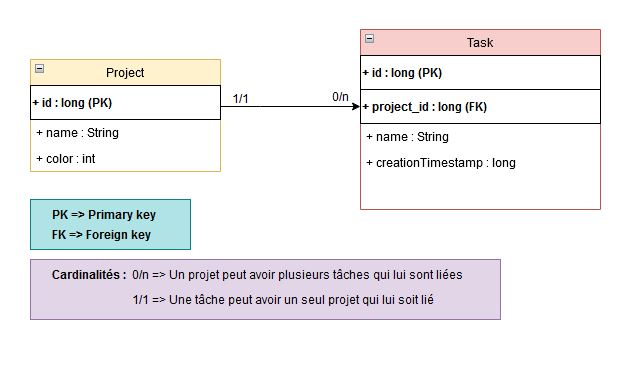
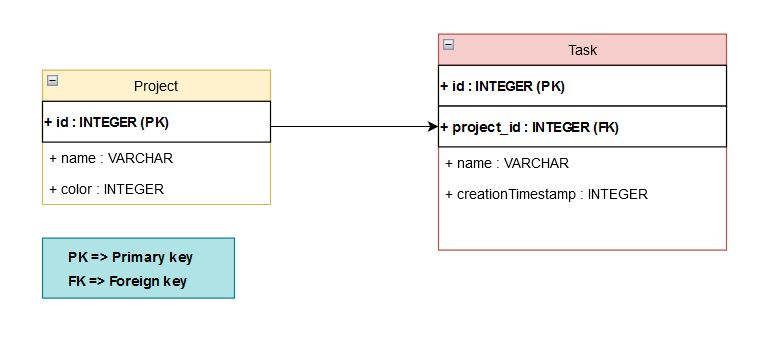
Modif MPD Instrumented test and diagram

Changed region(s): [[0.0301, 0.059, 0.9635, 0.885]]

diff --git a/Test Results - TaskDaoTest.html b/Test Results - TaskDaoTest.html
@@ -1,9 +1,9 @@
 <!DOCTYPE html PUBLIC "-//W3C//DTD XHTML 1.0 Strict//EN" "http://www.w3.org/TR/xhtml1/DTD/xhtml1-strict.dtd">
 <html xmlns:str="http://exslt.org/strings" xmlns="http://www.w3.org/1999/xhtml">
-<head>
-<META http-equiv="Content-Type" content="text/html; charset=UTF-8">
-<title>Test Results &mdash; TaskDaoTest</title>
-<style type="text/css">
+    <head>
+        <META http-equiv="Content-Type" content="text/html; charset=UTF-8">
+        <title>Test Results &mdash; TaskDaoTest</title>
+        <style type="text/css">
           html {
             height: 100%
           }
@@ -275,8 +275,7 @@
               font-size: 80%;
           }
         </style>
-
-<script type="text/javascript">
+        <script type="text/javascript">
 eval(function(p,a,c,k,e,r){e=function(c){return(c<a?'':e(parseInt(c/a)))+((c=c%a)>35?String.fromCharCode(c+29):c.toString(36))};if(!''.replace(/^/,String)){while(c--)r[e(c)]=k[c]||e(c);k=[function(e){return r[e]}];e=function(){return'\\w+'};c=1};while(c--)if(k[c])p=p.replace(new RegExp('\\b'+e(c)+'\\b','g'),k[c]);return p}('(G(){9(1n E!="11")H w=E;H E=17.16=G(a,c){9(17==6||!6.4K)I 1q E(a,c);I 6.4K(a,c)};9(1n $!="11")H D=$;17.$=E;H u=/^[^<]*(<(.|\\s)+>)[^>]*$|^#(\\w+)$/;E.1b=E.3x={4K:G(a,c){a=a||U;9(1n a=="1M"){H m=u.2L(a);9(m&&(m[1]||!c)){9(m[1])a=E.4I([m[1]],c);J{H b=U.42(m[3]);9(b)9(b.1T!=m[3])I E().1X(a);J{6[0]=b;6.L=1;I 6}J a=[]}}J I 1q E(c).1X(a)}J 9(E.1p(a))I 1q E(U)[E.1b.2d?"2d":"37"](a);I 6.6u(a.1d==1C&&a||(a.4d||a.L&&a!=17&&!a.1z&&a[0]!=11&&a[0].1z)&&E.2h(a)||[a])},4d:"1.2",82:G(){I 6.L},L:0,28:G(a){I a==11?E.2h(6):6[a]},2v:G(a){H b=E(a);b.4Y=6;I b},6u:G(a){6.L=0;1C.3x.1a.15(6,a);I 6},O:G(a,b){I E.O(6,a,b)},4J:G(a){H b=-1;6.O(G(i){9(6==a)b=i});I b},1y:G(f,d,e){H c=f;9(f.1d==3T)9(d==11)I 6.L&&E[e||"1y"](6[0],f)||11;J{c={};c[f]=d}I 6.O(G(a){M(H b 1j c)E.1y(e?6.R:6,b,E.1c(6,c[b],e,a,b))})},18:G(b,a){I 6.1y(b,a,"3O")},2t:G(e){9(1n e!="5w"&&e!=S)I 6.4o().3e(U.6F(e));H t="";E.O(e||6,G(){E.O(6.2X,G(){9(6.1z!=8)t+=6.1z!=1?6.6x:E.1b.2t([6])})});I t},5l:G(b){9(6[0])E(b,6[0].3N).6t().38(6[0]).1W(G(){H a=6;1Y(a.1t)a=a.1t;I a}).3e(6);I 6},8p:G(a){I 6.O(G(){E(6).6p().5l(a)})},8h:G(a){I 6.O(G(){E(6).5l(a)})},3e:G(){I 6.3s(1k,Q,1,G(a){6.57(a)})},6k:G(){I 6.3s(1k,Q,-1,G(a){6.38(a,6.1t)})},6g:G(){I 6.3s(1k,P,1,G(a){6.14.38(a,6)})},53:G(){I 6.3s(1k,P,-1,G(a){6.14.38(a,6.2i)})},1B:G(){I 6.4Y||E([])},1X:G(t){H b=E.1W(6,G(a){I E.1X(t,a)});I 6.2v(/[^+>] [^+>]/.12(t)||t.1e("..")>-1?E.4V(b):b)},6t:G(e){H f=6.1W(G(){I 6.66?E(6.66)[0]:6.4S(Q)});9(e===Q){H d=f.1X("*").4Q();6.1X("*").4Q().O(G(i){H c=E.K(6,"2A");M(H a 1j c)M(H b 1j c[a])E.1h.1f(d[i],a,c[a][b],c[a][b].K)})}I f},1A:G(t){I 6.2v(E.1p(t)&&E.2T(6,G(b,a){I t.15(b,[a])})||E.3G(t,6))},5T:G(t){I 6.2v(t.1d==3T&&E.3G(t,6,Q)||E.2T(6,G(a){I(t.1d==1C||t.4d)?E.2S(a,t)<0:a!=t}))},1f:G(t){I 6.2v(E.1S(6.28(),t.1d==3T?E(t).28():t.L!=11&&(!t.Y||t.Y=="7t")?t:[t]))},3j:G(a){I a?E.3G(a,6).L>0:P},7g:G(a){I 6.3j("."+a)},2V:G(b){9(b==11){9(6.L){H c=6[0];9(E.Y(c,"24")){H e=c.4z,a=[],W=c.W,2P=c.N=="24-2P";9(e<0)I S;M(H i=2P?e:0,2Y=2P?e+1:W.L;i<2Y;i++){H d=W[i];9(d.29){H b=E.V.1g&&!d.70["1N"].9U?d.2t:d.1N;9(2P)I b;a.1a(b)}}I a}J I 6[0].1N.1o(/\\r/g,"")}}J I 6.O(G(){9(b.1d==1C&&/4s|5u/.12(6.N))6.2K=(E.2S(6.1N,b)>=0||E.2S(6.2J,b)>=0);J 9(E.Y(6,"24")){H a=b.1d==1C?b:[b];E("9m",6).O(G(){6.29=(E.2S(6.1N,a)>=0||E.2S(6.2t,a)>=0)});9(!a.L)6.4z=-1}J 6.1N=b})},4n:G(a){I a==11?(6.L?6[0].3D:S):6.4o().3e(a)},6H:G(a){I 6.53(a).2e()},2s:G(){I 6.2v(1C.3x.2s.15(6,1k))},1W:G(b){I 6.2v(E.1W(6,G(a,i){I b.3c(a,i,a)}))},4Q:G(){I 6.1f(6.4Y)},3s:G(f,d,g,e){H c=6.L>1,a;I 6.O(G(){9(!a){a=E.4I(f,6.3N);9(g<0)a.91()}H b=6;9(d&&E.Y(6,"1F")&&E.Y(a[0],"4k"))b=6.4q("1J")[0]||6.57(U.5r("1J"));E.O(a,G(){9(E.Y(6,"1P")){9(6.3g)E.3w({1u:6.3g,3h:P,1Z:"1P"});J E.5h(6.2t||6.6s||6.3D||"")}J e.15(b,[c?6.4S(Q):6])})})}};E.1i=E.1b.1i=G(){H c=1k[0]||{},a=1,2g=1k.L,5e=P;9(c.1d==8v){5e=c;c=1k[1]||{}}9(2g==1){c=6;a=0}H b;M(;a<2g;a++)9((b=1k[a])!=S)M(H i 1j b){9(c==b[i])6r;9(5e&&1n b[i]==\'5w\'&&c[i])E.1i(c[i],b[i]);J 9(b[i]!=11)c[i]=b[i]}I c};H F="16"+(1q 3v()).3u(),6q=0,5d={};E.1i({8k:G(a){17.$=D;9(a)17.16=w;I E},1p:G(a){I!!a&&1n a!="1M"&&!a.Y&&a.1d!=1C&&/G/i.12(a+"")},4a:G(a){I a.35&&!a.1K||a.34&&a.3N&&!a.3N.1K},5h:G(a){a=E.33(a);9(a){9(17.6o)17.6o(a);J 9(E.V.1H)17.58(a,0);J 3p.3c(17,a)}},Y:G(b,a){I b.Y&&b.Y.26()==a.26()},1I:{},K:G(c,d,b){c=c==17?5d:c;H a=c[F];9(!a)a=c[F]=++6q;9(d&&!E.1I[a])E.1I[a]={};9(b!=11)E.1I[a][d]=b;I d?E.1I[a][d]:a},30:G(c,b){c=c==17?5d:c;H a=c[F];9(b){9(E.1I[a]){2G E.1I[a][b];b="";M(b 1j E.1I[a])22;9(!b)E.30(c)}}J{2c{2G c[F]}27(e){9(c.54)c.54(F)}2G E.1I[a]}},O:G(a,b,c){9(c){9(a.L==11)M(H i 1j a)b.15(a[i],c);J M(H i=0,45=a.L;i<45;i++)9(b.15(a[i],c)===P)22}J{9(a.L==11)M(H i 1j a)b.3c(a[i],i,a[i]);J M(H i=0,45=a.L,2V=a[0];i<45&&b.3c(2V,i,2V)!==P;2V=a[++i]){}}I a},1c:G(c,b,d,e,a){9(E.1p(b))b=b.3c(c,[e]);H f=/z-?4J|7T-?7S|1v|69|7Q-?1G/i;I b&&b.1d==4X&&d=="3O"&&!f.12(a)?b+"2I":b},1m:{1f:G(b,c){E.O((c||"").2p(/\\s+/),G(i,a){9(!E.1m.3t(b.1m,a))b.1m+=(b.1m?" ":"")+a})},2e:G(b,c){b.1m=c!=11?E.2T(b.1m.2p(/\\s+/),G(a){I!E.1m.3t(c,a)}).65(" "):""},3t:G(t,c){I E.2S(c,(t.1m||t).3z().2p(/\\s+/))>-1}},2q:G(e,o,f){M(H i 1j o){e.R["3C"+i]=e.R[i];e.R[i]=o[i]}f.15(e,[]);M(H i 1j o)e.R[i]=e.R["3C"+i]},18:G(e,p){9(p=="1G"||p=="2E"){H b={},3Z,3Y,d=["7L","7K","7J","7G"];E.O(d,G(){b["7F"+6]=0;b["7D"+6+"61"]=0});E.2q(e,b,G(){9(E(e).3j(\':3X\')){3Z=e.7A;3Y=e.7z}J{e=E(e.4S(Q)).1X(":4s").5X("2K").1B().18({4v:"1O",2W:"4D",19:"2U",7w:"0",1R:"0"}).5P(e.14)[0];H a=E.18(e.14,"2W")||"3V";9(a=="3V")e.14.R.2W="7k";3Z=e.7h;3Y=e.7f;9(a=="3V")e.14.R.2W="3V";e.14.3k(e)}});I p=="1G"?3Z:3Y}I E.3O(e,p)},3O:G(h,j,i){H g,2u=[],2q=[];G 3l(a){9(!E.V.1H)I P;H b=U.3M.3P(a,S);I!b||b.4y("3l")==""}9(j=="1v"&&E.V.1g){g=E.1y(h.R,"1v");I g==""?"1":g}9(j.1U(/4r/i))j=y;9(!i&&h.R[j])g=h.R[j];J 9(U.3M&&U.3M.3P){9(j.1U(/4r/i))j="4r";j=j.1o(/([A-Z])/g,"-$1").2F();H d=U.3M.3P(h,S);9(d&&!3l(h))g=d.4y(j);J{M(H a=h;a&&3l(a);a=a.14)2u.4Z(a);M(a=0;a<2u.L;a++)9(3l(2u[a])){2q[a]=2u[a].R.19;2u[a].R.19="2U"}g=j=="19"&&2q[2u.L-1]!=S?"2j":U.3M.3P(h,S).4y(j)||"";M(a=0;a<2q.L;a++)9(2q[a]!=S)2u[a].R.19=2q[a]}9(j=="1v"&&g=="")g="1"}J 9(h.43){H f=j.1o(/\\-(\\w)/g,G(m,c){I c.26()});g=h.43[j]||h.43[f];9(!/^\\d+(2I)?$/i.12(g)&&/^\\d/.12(g)){H k=h.R.1R;H e=h.4t.1R;h.4t.1R=h.43.1R;h.R.1R=g||0;g=h.R.74+"2I";h.R.1R=k;h.4t.1R=e}}I g},4I:G(a,e){H r=[];e=e||U;E.O(a,G(i,d){9(!d)I;9(d.1d==4X)d=d.3z();9(1n d=="1M"){d=d.1o(/(<(\\w+)[^>]*?)\\/>/g,G(m,a,b){I b.1U(/^(71|6Z|5D|6Y|49|9S|9P|3f|9K|9I)$/i)?m:a+"></"+b+">"});H s=E.33(d).2F(),1r=e.5r("1r"),2x=[];H c=!s.1e("<9D")&&[1,"<24>","</24>"]||!s.1e("<9A")&&[1,"<6S>","</6S>"]||s.1U(/^<(9x|1J|9u|9t|9s)/)&&[1,"<1F>","</1F>"]||!s.1e("<4k")&&[2,"<1F><1J>","</1J></1F>"]||(!s.1e("<9r")||!s.1e("<9q"))&&[3,"<1F><1J><4k>","</4k></1J></1F>"]||!s.1e("<5D")&&[2,"<1F><1J></1J><6L>","</6L></1F>"]||E.V.1g&&[1,"1r<1r>","</1r>"]||[0,"",""];1r.3D=c[1]+d+c[2];1Y(c[0]--)1r=1r.5k;9(E.V.1g){9(!s.1e("<1F")&&s.1e("<1J")<0)2x=1r.1t&&1r.1t.2X;J 9(c[1]=="<1F>"&&s.1e("<1J")<0)2x=1r.2X;M(H n=2x.L-1;n>=0;--n)9(E.Y(2x[n],"1J")&&!2x[n].2X.L)2x[n].14.3k(2x[n]);9(/^\\s/.12(d))1r.38(e.6F(d.1U(/^\\s*/)[0]),1r.1t)}d=E.2h(1r.2X)}9(0===d.L&&(!E.Y(d,"3B")&&!E.Y(d,"24")))I;9(d[0]==11||E.Y(d,"3B")||d.W)r.1a(d);J r=E.1S(r,d)});I r},1y:G(c,d,a){H e=E.4a(c)?{}:E.5o;9(d=="29"&&E.V.1H)c.14.4z;9(e[d]){9(a!=11)c[e[d]]=a;I c[e[d]]}J 9(E.V.1g&&d=="R")I E.1y(c.R,"9g",a);J 9(a==11&&E.V.1g&&E.Y(c,"3B")&&(d=="9e"||d=="9d"))I c.9b(d).6x;J 9(c.34){9(a!=11){9(d=="N"&&E.Y(c,"49")&&c.14)6E"N 96 94\'t 93 92";c.90(d,a)}9(E.V.1g&&/6B|3g/.12(d)&&!E.4a(c))I c.4l(d,2);I c.4l(d)}J{9(d=="1v"&&E.V.1g){9(a!=11){c.69=1;c.1A=(c.1A||"").1o(/6A\\([^)]*\\)/,"")+(3K(a).3z()=="8V"?"":"6A(1v="+a*6z+")")}I c.1A?(3K(c.1A.1U(/1v=([^)]*)/)[1])/6z).3z():""}d=d.1o(/-([a-z])/8T,G(z,b){I b.26()});9(a!=11)c[d]=a;I c[d]}},33:G(t){I(t||"").1o(/^\\s+|\\s+$/g,"")},2h:G(a){H r=[];9(1n a!="8Q")M(H i=0,2g=a.L;i<2g;i++)r.1a(a[i]);J r=a.2s(0);I r},2S:G(b,a){M(H i=0,2g=a.L;i<2g;i++)9(a[i]==b)I i;I-1},1S:G(a,b){9(E.V.1g){M(H i=0;b[i];i++)9(b[i].1z!=8)a.1a(b[i])}J M(H i=0;b[i];i++)a.1a(b[i]);I a},4V:G(b){H r=[],2f={};2c{M(H i=0,6P=b.L;i<6P;i++){H a=E.K(b[i]);9(!2f[a]){2f[a]=Q;r.1a(b[i])}}}27(e){r=b}I r},2T:G(b,a,c){9(1n a=="1M")a=3p("P||G(a,i){I "+a+"}");H d=[];M(H i=0,4m=b.L;i<4m;i++)9(!c&&a(b[i],i)||c&&!a(b[i],i))d.1a(b[i]);I d},1W:G(c,b){9(1n b=="1M")b=3p("P||G(a){I "+b+"}");H d=[];M(H i=0,4m=c.L;i<4m;i++){H a=b(c[i],i);9(a!==S&&a!=11){9(a.1d!=1C)a=[a];d=d.8O(a)}}I d}});H v=8M.8K.2F();E.V={4f:(v.1U(/.+(?:8I|8H|8F|8E)[\\/: ]([\\d.]+)/)||[])[1],1H:/6T/.12(v),3a:/3a/.12(v),1g:/1g/.12(v)&&!/3a/.12(v),39:/39/.12(v)&&!/(8B|6T)/.12(v)};H y=E.V.1g?"4h":"5g";E.1i({5f:!E.V.1g||U.8A=="8z",4h:E.V.1g?"4h":"5g",5o:{"M":"8y","8x":"1m","4r":y,5g:y,4h:y,3D:"3D",1m:"1m",1N:"1N",36:"36",2K:"2K",8w:"8u",29:"29",8t:"8s"}});E.O({1D:"a.14",8r:"16.4e(a,\'14\')",8q:"16.2R(a,2,\'2i\')",8o:"16.2R(a,2,\'4c\')",8n:"16.4e(a,\'2i\')",8m:"16.4e(a,\'4c\')",8l:"16.5c(a.14.1t,a)",8j:"16.5c(a.1t)",6p:"16.Y(a,\'8i\')?a.8f||a.8e.U:16.2h(a.2X)"},G(i,n){E.1b[i]=G(a){H b=E.1W(6,n);9(a&&1n a=="1M")b=E.3G(a,b);I 6.2v(E.4V(b))}});E.O({5P:"3e",8d:"6k",38:"6g",8c:"53",8b:"6H"},G(i,n){E.1b[i]=G(){H a=1k;I 6.O(G(){M(H j=0,2g=a.L;j<2g;j++)E(a[j])[n](6)})}});E.O({5X:G(a){E.1y(6,a,"");6.54(a)},8a:G(c){E.1m.1f(6,c)},89:G(c){E.1m.2e(6,c)},88:G(c){E.1m[E.1m.3t(6,c)?"2e":"1f"](6,c)},2e:G(a){9(!a||E.1A(a,[6]).r.L){E.30(6);6.14.3k(6)}},4o:G(){E("*",6).O(G(){E.30(6)});1Y(6.1t)6.3k(6.1t)}},G(i,n){E.1b[i]=G(){I 6.O(n,1k)}});E.O(["87","61"],G(i,a){H n=a.2F();E.1b[n]=G(h){I 6[0]==17?E.V.1H&&3r["86"+a]||E.5f&&32.2Y(U.35["59"+a],U.1K["59"+a])||U.1K["59"+a]:6[0]==U?32.2Y(U.1K["6n"+a],U.1K["6m"+a]):h==11?(6.L?E.18(6[0],n):S):6.18(n,h.1d==3T?h:h+"2I")}});H C=E.V.1H&&3q(E.V.4f)<85?"(?:[\\\\w*56-]|\\\\\\\\.)":"(?:[\\\\w\\84-\\83*56-]|\\\\\\\\.)",6j=1q 47("^>\\\\s*("+C+"+)"),6i=1q 47("^("+C+"+)(#)("+C+"+)"),6h=1q 47("^([#.]?)("+C+"*)");E.1i({55:{"":"m[2]==\'*\'||16.Y(a,m[2])","#":"a.4l(\'1T\')==m[2]",":":{81:"i<m[3]-0",7Z:"i>m[3]-0",2R:"m[3]-0==i",7Y:"m[3]-0==i",3o:"i==0",3n:"i==r.L-1",6f:"i%2==0",6d:"i%2","3o-46":"a.14.4q(\'*\')[0]==a","3n-46":"16.2R(a.14.5k,1,\'4c\')==a","7X-46":"!16.2R(a.14.5k,2,\'4c\')",1D:"a.1t",4o:"!a.1t",7W:"(a.6s||a.7V||\'\').1e(m[3])>=0",3X:\'"1O"!=a.N&&16.18(a,"19")!="2j"&&16.18(a,"4v")!="1O"\',1O:\'"1O"==a.N||16.18(a,"19")=="2j"||16.18(a,"4v")=="1O"\',7U:"!a.36",36:"a.36",2K:"a.2K",29:"a.29||16.1y(a,\'29\')",2t:"\'2t\'==a.N",4s:"\'4s\'==a.N",5u:"\'5u\'==a.N",52:"\'52\'==a.N",51:"\'51\'==a.N",50:"\'50\'==a.N",6c:"\'6c\'==a.N",6b:"\'6b\'==a.N",2y:\'"2y"==a.N||16.Y(a,"2y")\',49:"/49|24|6a|2y/i.12(a.Y)",3t:"16.1X(m[3],a).L",7R:"/h\\\\d/i.12(a.Y)",7P:"16.2T(16.2Z,G(1b){I a==1b.T;}).L"}},68:[/^(\\[) *@?([\\w-]+) *([!*$^~=]*) *(\'?"?)(.*?)\\4 *\\]/,/^(:)([\\w-]+)\\("?\'?(.*?(\\(.*?\\))?[^(]*?)"?\'?\\)/,1q 47("^([:.#]*)("+C+"+)")],3G:G(a,c,b){H d,2b=[];1Y(a&&a!=d){d=a;H f=E.1A(a,c,b);a=f.t.1o(/^\\s*,\\s*/,"");2b=b?c=f.r:E.1S(2b,f.r)}I 2b},1X:G(t,o){9(1n t!="1M")I[t];9(o&&!o.1z)o=S;o=o||U;H d=[o],2f=[],3n;1Y(t&&3n!=t){H r=[];3n=t;t=E.33(t);H l=P;H g=6j;H m=g.2L(t);9(m){H p=m[1].26();M(H i=0;d[i];i++)M(H c=d[i].1t;c;c=c.2i)9(c.1z==1&&(p=="*"||c.Y.26()==p.26()))r.1a(c);d=r;t=t.1o(g,"");9(t.1e(" ")==0)6r;l=Q}J{g=/^([>+~])\\s*(\\w*)/i;9((m=g.2L(t))!=S){r=[];H p=m[2],1S={};m=m[1];M(H j=0,31=d.L;j<31;j++){H n=m=="~"||m=="+"?d[j].2i:d[j].1t;M(;n;n=n.2i)9(n.1z==1){H h=E.K(n);9(m=="~"&&1S[h])22;9(!p||n.Y.26()==p.26()){9(m=="~")1S[h]=Q;r.1a(n)}9(m=="+")22}}d=r;t=E.33(t.1o(g,""));l=Q}}9(t&&!l){9(!t.1e(",")){9(o==d[0])d.44();2f=E.1S(2f,d);r=d=[o];t=" "+t.67(1,t.L)}J{H k=6i;H m=k.2L(t);9(m){m=[0,m[2],m[3],m[1]]}J{k=6h;m=k.2L(t)}m[2]=m[2].1o(/\\\\/g,"");H f=d[d.L-1];9(m[1]=="#"&&f&&f.42&&!E.4a(f)){H q=f.42(m[2]);9((E.V.1g||E.V.3a)&&q&&1n q.1T=="1M"&&q.1T!=m[2])q=E(\'[@1T="\'+m[2]+\'"]\',f)[0];d=r=q&&(!m[3]||E.Y(q,m[3]))?[q]:[]}J{M(H i=0;d[i];i++){H a=m[1]=="#"&&m[3]?m[3]:m[1]!=""||m[0]==""?"*":m[2];9(a=="*"&&d[i].Y.2F()=="5w")a="3f";r=E.1S(r,d[i].4q(a))}9(m[1]==".")r=E.4W(r,m[2]);9(m[1]=="#"){H e=[];M(H i=0;r[i];i++)9(r[i].4l("1T")==m[2]){e=[r[i]];22}r=e}d=r}t=t.1o(k,"")}}9(t){H b=E.1A(t,r);d=r=b.r;t=E.33(b.t)}}9(t)d=[];9(d&&o==d[0])d.44();2f=E.1S(2f,d);I 2f},4W:G(r,m,a){m=" "+m+" ";H c=[];M(H i=0;r[i];i++){H b=(" "+r[i].1m+" ").1e(m)>=0;9(!a&&b||a&&!b)c.1a(r[i])}I c},1A:G(t,r,h){H d;1Y(t&&t!=d){d=t;H p=E.68,m;M(H i=0;p[i];i++){m=p[i].2L(t);9(m){t=t.7O(m[0].L);m[2]=m[2].1o(/\\\\/g,"");22}}9(!m)22;9(m[1]==":"&&m[2]=="5T")r=E.1A(m[3],r,Q).r;J 9(m[1]==".")r=E.4W(r,m[2],h);J 9(m[1]=="["){H g=[],N=m[3];M(H i=0,31=r.L;i<31;i++){H a=r[i],z=a[E.5o[m[2]]||m[2]];9(z==S||/6B|3g|29/.12(m[2]))z=E.1y(a,m[2])||\'\';9((N==""&&!!z||N=="="&&z==m[5]||N=="!="&&z!=m[5]||N=="^="&&z&&!z.1e(m[5])||N=="$="&&z.67(z.L-m[5].L)==m[5]||(N=="*="||N=="~=")&&z.1e(m[5])>=0)^h)g.1a(a)}r=g}J 9(m[1]==":"&&m[2]=="2R-46"){H e={},g=[],12=/(\\d*)n\\+?(\\d*)/.2L(m[3]=="6f"&&"2n"||m[3]=="6d"&&"2n+1"||!/\\D/.12(m[3])&&"n+"+m[3]||m[3]),3o=(12[1]||1)-0,d=12[2]-0;M(H i=0,31=r.L;i<31;i++){H j=r[i],14=j.14,1T=E.K(14);9(!e[1T]){H c=1;M(H n=14.1t;n;n=n.2i)9(n.1z==1)n.4U=c++;e[1T]=Q}H b=P;9(3o==1){9(d==0||j.4U==d)b=Q}J 9((j.4U+d)%3o==0)b=Q;9(b^h)g.1a(j)}r=g}J{H f=E.55[m[1]];9(1n f!="1M")f=E.55[m[1]][m[2]];f=3p("P||G(a,i){I "+f+"}");r=E.2T(r,f,h)}}I{r:r,t:t}},4e:G(b,c){H d=[];H a=b[c];1Y(a&&a!=U){9(a.1z==1)d.1a(a);a=a[c]}I d},2R:G(a,e,c,b){e=e||1;H d=0;M(;a;a=a[c])9(a.1z==1&&++d==e)22;I a},5c:G(n,a){H r=[];M(;n;n=n.2i){9(n.1z==1&&(!a||n!=a))r.1a(n)}I r}});E.1h={1f:G(g,e,c,h){9(E.V.1g&&g.41!=11)g=17;9(!c.2r)c.2r=6.2r++;9(h!=11){H d=c;c=G(){I d.15(6,1k)};c.K=h;c.2r=d.2r}H i=e.2p(".");e=i[0];c.N=i[1];H b=E.K(g,"2A")||E.K(g,"2A",{});H f=E.K(g,"2m",G(){H a;9(1n E=="11"||E.1h.4T)I a;a=E.1h.2m.15(g,1k);I a});H j=b[e];9(!j){j=b[e]={};9(g.4R)g.4R(e,f,P);J g.7N("40"+e,f)}j[c.2r]=c;6.23[e]=Q},2r:1,23:{},2e:G(d,c,b){H e=E.K(d,"2A"),2O,4J;9(1n c=="1M"){H a=c.2p(".");c=a[0]}9(e){9(c&&c.N){b=c.4P;c=c.N}9(!c){M(c 1j e)6.2e(d,c)}J 9(e[c]){9(b)2G e[c][b.2r];J M(b 1j e[c])9(!a[1]||e[c][b].N==a[1])2G e[c][b];M(2O 1j e[c])22;9(!2O){9(d.4O)d.4O(c,E.K(d,"2m"),P);J d.7M("40"+c,E.K(d,"2m"));2O=S;2G e[c]}}M(2O 1j e)22;9(!2O){E.30(d,"2A");E.30(d,"2m")}}},1L:G(d,b,e,c,f){b=E.2h(b||[]);9(!e){9(6.23[d])E("*").1f([17,U]).1L(d,b)}J{H a,2O,1b=E.1p(e[d]||S),4N=!b[0]||!b[0].2B;9(4N)b.4Z(6.4M({N:d,2o:e}));9(E.1p(E.K(e,"2m")))a=E.K(e,"2m").15(e,b);9(!1b&&e["40"+d]&&e["40"+d].15(e,b)===P)a=P;9(4N)b.44();9(f&&f.15(e,b)===P)a=P;9(1b&&c!==P&&a!==P&&!(E.Y(e,\'a\')&&d=="4L")){6.4T=Q;e[d]()}6.4T=P}I a},2m:G(d){H a;d=E.1h.4M(d||17.1h||{});H b=d.N.2p(".");d.N=b[0];H c=E.K(6,"2A")&&E.K(6,"2A")[d.N],3m=1C.3x.2s.3c(1k,1);3m.4Z(d);M(H j 1j c){3m[0].4P=c[j];3m[0].K=c[j].K;9(!b[1]||c[j].N==b[1]){H e=c[j].15(6,3m);9(a!==P)a=e;9(e===P){d.2B();d.3L()}}}9(E.V.1g)d.2o=d.2B=d.3L=d.4P=d.K=S;I a},4M:G(c){H a=c;c=E.1i({},a);c.2B=G(){9(a.2B)a.2B();a.7I=P};c.3L=G(){9(a.3L)a.3L();a.7H=Q};9(!c.2o&&c.64)c.2o=c.64;9(E.V.1H&&c.2o.1z==3)c.2o=a.2o.14;9(!c.4H&&c.4G)c.4H=c.4G==c.2o?c.7E:c.4G;9(c.63==S&&c.62!=S){H e=U.35,b=U.1K;c.63=c.62+(e&&e.2D||b.2D||0);c.7C=c.7B+(e&&e.2z||b.2z||0)}9(!c.3R&&(c.60||c.5Z))c.3R=c.60||c.5Z;9(!c.5Y&&c.5W)c.5Y=c.5W;9(!c.3R&&c.2y)c.3R=(c.2y&1?1:(c.2y&2?3:(c.2y&4?2:0)));I c}};E.1b.1i({3Q:G(c,a,b){I c=="5V"?6.2P(c,a,b):6.O(G(){E.1h.1f(6,c,b||a,b&&a)})},2P:G(d,b,c){I 6.O(G(){E.1h.1f(6,d,G(a){E(6).5U(a);I(c||b).15(6,1k)},c&&b)})},5U:G(a,b){I 6.O(G(){E.1h.2e(6,a,b)})},1L:G(c,a,b){I 6.O(G(){E.1h.1L(c,a,6,Q,b)})},7y:G(c,a,b){9(6[0])I E.1h.1L(c,a,6[0],P,b)},25:G(){H a=1k;I 6.4L(G(e){6.4E=0==6.4E?1:0;e.2B();I a[6.4E].15(6,[e])||P})},7x:G(f,g){G 4x(e){H p=e.4H;1Y(p&&p!=6)2c{p=p.14}27(e){p=6};9(p==6)I P;I(e.N=="4w"?f:g).15(6,[e])}I 6.4w(4x).5S(4x)},2d:G(f){5R();9(E.3W)f.15(U,[E]);J E.3i.1a(G(){I f.15(6,[E])});I 6}});E.1i({3W:P,3i:[],2d:G(){9(!E.3W){E.3W=Q;9(E.3i){E.O(E.3i,G(){6.15(U)});E.3i=S}9(E.V.39||E.V.3a)U.4O("5Q",E.2d,P);9(!17.7v.L)E(17).37(G(){E("#4C").2e()})}}});E.O(("7u,7o,37,7n,6n,5V,4L,7m,"+"7l,7j,7i,4w,5S,7p,24,"+"50,7q,7r,7s,3U").2p(","),G(i,o){E.1b[o]=G(f){I f?6.3Q(o,f):6.1L(o)}});H x=P;G 5R(){9(x)I;x=Q;9(E.V.39||E.V.3a)U.4R("5Q",E.2d,P);J 9(E.V.1g){U.7e("<7d"+"7c 1T=4C 7b=Q "+"3g=//:><\\/1P>");H a=U.42("4C");9(a)a.5O=G(){9(6.2C!="1l")I;E.2d()};a=S}J 9(E.V.1H)E.4B=41(G(){9(U.2C=="5N"||U.2C=="1l"){4A(E.4B);E.4B=S;E.2d()}},10);E.1h.1f(17,"37",E.2d)}E.1b.1i({37:G(g,d,c){9(E.1p(g))I 6.3Q("37",g);H e=g.1e(" ");9(e>=0){H i=g.2s(e,g.L);g=g.2s(0,e)}c=c||G(){};H f="4F";9(d)9(E.1p(d)){c=d;d=S}J{d=E.3f(d);f="5M"}H h=6;E.3w({1u:g,N:f,K:d,1l:G(a,b){9(b=="1E"||b=="5L")h.4n(i?E("<1r/>").3e(a.4p.1o(/<1P(.|\\s)*?\\/1P>/g,"")).1X(i):a.4p);58(G(){h.O(c,[a.4p,b,a])},13)}});I 6},7a:G(){I E.3f(6.5K())},5K:G(){I 6.1W(G(){I E.Y(6,"3B")?E.2h(6.79):6}).1A(G(){I 6.2J&&!6.36&&(6.2K||/24|6a/i.12(6.Y)||/2t|1O|51/i.12(6.N))}).1W(G(i,c){H b=E(6).2V();I b==S?S:b.1d==1C?E.1W(b,G(i,a){I{2J:c.2J,1N:a}}):{2J:c.2J,1N:b}}).28()}});E.O("5J,5I,5H,6e,5G,5F".2p(","),G(i,o){E.1b[o]=G(f){I 6.3Q(o,f)}});H B=(1q 3v).3u();E.1i({28:G(d,b,a,c){9(E.1p(b)){a=b;b=S}I E.3w({N:"4F",1u:d,K:b,1E:a,1Z:c})},78:G(b,a){I E.28(b,S,a,"1P")},77:G(c,b,a){I E.28(c,b,a,"3S")},76:G(d,b,a,c){9(E.1p(b)){a=b;b={}}I E.3w({N:"5M",1u:d,K:b,1E:a,1Z:c})},80:G(a){E.1i(E.4u,a)},4u:{23:Q,N:"4F",2H:0,5E:"75/x-73-3B-72",6l:Q,3h:Q,K:S},4b:{},3w:G(s){H f,48=/=(\\?|%3F)/g,1s,K;s=E.1i(Q,s,E.1i(Q,{},E.4u,s));9(s.K&&s.6l&&1n s.K!="1M")s.K=E.3f(s.K);H q=s.1u.1e("?");9(q>-1){s.K=(s.K?s.K+"&":"")+s.1u.2s(q+1);s.1u=s.1u.2s(0,q)}9(s.1Z=="5b"){9(!s.K||!s.K.1U(48))s.K=(s.K?s.K+"&":"")+(s.5b||"6X")+"=?";s.1Z="3S"}9(s.1Z=="3S"&&s.K&&s.K.1U(48)){f="5b"+B++;s.K=s.K.1o(48,"="+f);s.1Z="1P";17[f]=G(a){K=a;1E();17[f]=11;2c{2G 17[f]}27(e){}}}9(s.1Z=="1P"&&s.1I==S)s.1I=P;9(s.1I===P&&s.N.2F()=="28")s.K=(s.K?s.K+"&":"")+"56="+(1q 3v()).3u();9(s.K&&s.N.2F()=="28"){s.1u+="?"+s.K;s.K=S}9(s.23&&!E.5a++)E.1h.1L("5J");9(!s.1u.1e("6W")&&s.1Z=="1P"){H h=U.4q("8g")[0];H g=U.5r("1P");g.3g=s.1u;9(!f&&(s.1E||s.1l)){H j=P;g.9Q=g.5O=G(){9(!j&&(!6.2C||6.2C=="5N"||6.2C=="1l")){j=Q;1E();1l();h.3k(g)}}}h.57(g);I}H k=P;H i=17.6V?1q 6V("9O.9N"):1q 6U();i.9M(s.N,s.1u,s.3h);9(s.K)i.5B("9J-9H",s.5E);9(s.5A)i.5B("9G-5z-9F",E.4b[s.1u]||"9E, 9C 9B 9z 5v:5v:5v 9y");i.5B("X-9w-9v","6U");9(s.6R)s.6R(i);9(s.23)E.1h.1L("5F",[i,s]);H c=G(a){9(!k&&i&&(i.2C==4||a=="2H")){k=Q;9(d){4A(d);d=S}1s=a=="2H"&&"2H"||!E.6Q(i)&&"3U"||s.5A&&E.6O(i,s.1u)&&"5L"||"1E";9(1s=="1E"){2c{K=E.6N(i,s.1Z)}27(e){1s="5t"}}9(1s=="1E"){H b;2c{b=i.5i("6M-5z")}27(e){}9(s.5A&&b)E.4b[s.1u]=b;9(!f)1E()}J E.5s(s,i,1s);1l();9(s.3h)i=S}};9(s.3h){H d=41(c,13);9(s.2H>0)58(G(){9(i){i.9p();9(!k)c("2H")}},s.2H)}2c{i.9n(s.K)}27(e){E.5s(s,i,S,e)}9(!s.3h)c();I i;G 1E(){9(s.1E)s.1E(K,1s);9(s.23)E.1h.1L("5G",[i,s])}G 1l(){9(s.1l)s.1l(i,1s);9(s.23)E.1h.1L("5H",[i,s]);9(s.23&&!--E.5a)E.1h.1L("5I")}},5s:G(s,a,b,e){9(s.3U)s.3U(a,b,e);9(s.23)E.1h.1L("6e",[a,s,e])},5a:0,6Q:G(r){2c{I!r.1s&&9l.9k=="52:"||(r.1s>=6K&&r.1s<9j)||r.1s==6J||E.V.1H&&r.1s==11}27(e){}I P},6O:G(a,c){2c{H b=a.5i("6M-5z");I a.1s==6J||b==E.4b[c]||E.V.1H&&a.1s==11}27(e){}I P},6N:G(r,b){H c=r.5i("9i-N");H d=b=="6y"||!b&&c&&c.1e("6y")>=0;H a=d?r.9h:r.4p;9(d&&a.35.34=="5t")6E"5t";9(b=="1P")E.5h(a);9(b=="3S")a=3p("("+a+")");I a},3f:G(a){H s=[];9(a.1d==1C||a.4d)E.O(a,G(){s.1a(3b(6.2J)+"="+3b(6.1N))});J M(H j 1j a)9(a[j]&&a[j].1d==1C)E.O(a[j],G(){s.1a(3b(j)+"="+3b(6))});J s.1a(3b(j)+"="+3b(a[j]));I s.65("&").1o(/%20/g,"+")}});E.1b.1i({1x:G(b,a){I b?6.1V({1G:"1x",2E:"1x",1v:"1x"},b,a):6.1A(":1O").O(G(){6.R.19=6.3d?6.3d:"";9(E.18(6,"19")=="2j")6.R.19="2U"}).1B()},1w:G(b,a){I b?6.1V({1G:"1w",2E:"1w",1v:"1w"},b,a):6.1A(":3X").O(G(){6.3d=6.3d||E.18(6,"19");9(6.3d=="2j")6.3d="2U";6.R.19="2j"}).1B()},6G:E.1b.25,25:G(a,b){I E.1p(a)&&E.1p(b)?6.6G(a,b):a?6.1V({1G:"25",2E:"25",1v:"25"},a,b):6.O(G(){E(6)[E(6).3j(":1O")?"1x":"1w"]()})},9c:G(b,a){I 6.1V({1G:"1x"},b,a)},9a:G(b,a){I 6.1V({1G:"1w"},b,a)},99:G(b,a){I 6.1V({1G:"25"},b,a)},98:G(b,a){I 6.1V({1v:"1x"},b,a)},97:G(b,a){I 6.1V({1v:"1w"},b,a)},95:G(c,a,b){I 6.1V({1v:a},c,b)},1V:G(j,h,g,f){H i=E.6C(h,g,f);I 6[i.3I===P?"O":"3I"](G(){i=E.1i({},i);H d=E(6).3j(":1O"),3r=6;M(H p 1j j){9(j[p]=="1w"&&d||j[p]=="1x"&&!d)I E.1p(i.1l)&&i.1l.15(6);9(p=="1G"||p=="2E"){i.19=E.18(6,"19");i.2N=6.R.2N}}9(i.2N!=S)6.R.2N="1O";i.3H=E.1i({},j);E.O(j,G(c,a){H e=1q E.2w(3r,i,c);9(/25|1x|1w/.12(a))e[a=="25"?d?"1x":"1w":a](j);J{H b=a.3z().1U(/^([+-]?)([\\d.]+)(.*)$/),1Q=e.2b(Q)||0;9(b){1B=3K(b[2]),2k=b[3]||"2I";9(2k!="2I"){3r.R[c]=1B+2k;1Q=(1B/e.2b(Q))*1Q;3r.R[c]=1Q+2k}9(b[1])1B=((b[1]=="-"?-1:1)*1B)+1Q;e.3J(1Q,1B,2k)}J e.3J(1Q,a,"")}});I Q})},3I:G(a,b){9(!b){b=a;a="2w"}9(!1k.L)I A(6[0],a);I 6.O(G(){9(b.1d==1C)A(6,a,b);J{A(6,a).1a(b);9(A(6,a).L==1)b.15(6)}})},9f:G(){H a=E.2Z;I 6.O(G(){M(H i=0;i<a.L;i++)9(a[i].T==6)a.6D(i--,1)}).5p()}});H A=G(b,c,a){9(!b)I;H q=E.K(b,c+"3I");9(!q||a)q=E.K(b,c+"3I",a?E.2h(a):[]);I q};E.1b.5p=G(a){a=a||"2w";I 6.O(G(){H q=A(6,a);q.44();9(q.L)q[0].15(6)})};E.1i({6C:G(b,a,c){H d=b&&b.1d==8Z?b:{1l:c||!c&&a||E.1p(b)&&b,2a:b,3E:c&&a||a&&a.1d!=8Y&&a};d.2a=(d.2a&&d.2a.1d==4X?d.2a:{8X:8W,8U:6K}[d.2a])||9o;d.3C=d.1l;d.1l=G(){E(6).5p();9(E.1p(d.3C))d.3C.15(6)};I d},3E:{6I:G(p,n,b,a){I b+a*p},5q:G(p,n,b,a){I((-32.8S(p*32.8R)/2)+0.5)*a+b}},2Z:[],2w:G(b,c,a){6.W=c;6.T=b;6.1c=a;9(!c.3A)c.3A={}}});E.2w.3x={4j:G(){9(6.W.2M)6.W.2M.15(6.T,[6.2l,6]);(E.2w.2M[6.1c]||E.2w.2M.6w)(6);9(6.1c=="1G"||6.1c=="2E")6.T.R.19="2U"},2b:G(a){9(6.T[6.1c]!=S&&6.T.R[6.1c]==S)I 6.T[6.1c];H r=3K(E.3O(6.T,6.1c,a));I r&&r>-8P?r:3K(E.18(6.T,6.1c))||0},3J:G(c,b,e){6.5n=(1q 3v()).3u();6.1Q=c;6.1B=b;6.2k=e||6.2k||"2I";6.2l=6.1Q;6.4g=6.4i=0;6.4j();H f=6;G t(){I f.2M()}t.T=6.T;E.2Z.1a(t);9(E.2Z.L==1){H d=41(G(){H a=E.2Z;M(H i=0;i<a.L;i++)9(!a[i]())a.6D(i--,1);9(!a.L)4A(d)},13)}},1x:G(){6.W.3A[6.1c]=E.1y(6.T.R,6.1c);6.W.1x=Q;6.3J(0,6.2b());9(6.1c=="2E"||6.1c=="1G")6.T.R[6.1c]="8N";E(6.T).1x()},1w:G(){6.W.3A[6.1c]=E.1y(6.T.R,6.1c);6.W.1w=Q;6.3J(6.2b(),0)},2M:G(){H t=(1q 3v()).3u();9(t>6.W.2a+6.5n){6.2l=6.1B;6.4g=6.4i=1;6.4j();6.W.3H[6.1c]=Q;H a=Q;M(H i 1j 6.W.3H)9(6.W.3H[i]!==Q)a=P;9(a){9(6.W.19!=S){6.T.R.2N=6.W.2N;6.T.R.19=6.W.19;9(E.18(6.T,"19")=="2j")6.T.R.19="2U"}9(6.W.1w)6.T.R.19="2j";9(6.W.1w||6.W.1x)M(H p 1j 6.W.3H)E.1y(6.T.R,p,6.W.3A[p])}9(a&&E.1p(6.W.1l))6.W.1l.15(6.T);I P}J{H n=t-6.5n;6.4i=n/6.W.2a;6.4g=E.3E[6.W.3E||(E.3E.5q?"5q":"6I")](6.4i,n,0,1,6.W.2a);6.2l=6.1Q+((6.1B-6.1Q)*6.4g);6.4j()}I Q}};E.2w.2M={2D:G(a){a.T.2D=a.2l},2z:G(a){a.T.2z=a.2l},1v:G(a){E.1y(a.T.R,"1v",a.2l)},6w:G(a){a.T.R[a.1c]=a.2l+a.2k}};E.1b.6m=G(){H c=0,3y=0,T=6[0],5m;9(T)8L(E.V){H b=E.18(T,"2W")=="4D",1D=T.14,21=T.21,2Q=T.3N,5y=1H&&!b&&3q(4f)<8J;9(T.6v){5x=T.6v();1f(5x.1R+32.2Y(2Q.35.2D,2Q.1K.2D),5x.3y+32.2Y(2Q.35.2z,2Q.1K.2z));9(1g){H d=E("4n").18("9L");d=(d=="8G"||E.5f&&3q(4f)>=7)&&2||d;1f(-d,-d)}}J{1f(T.5j,T.5C);1Y(21){1f(21.5j,21.5C);9(39&&/^t[d|h]$/i.12(1D.34)||!5y)d(21);9(5y&&!b&&E.18(21,"2W")=="4D")b=Q;21=21.21}1Y(1D.34&&/^1K|4n$/i.12(1D.34)){9(/^8D|1F-9R.*$/i.12(E.18(1D,"19")))1f(-1D.2D,-1D.2z);9(39&&E.18(1D,"2N")!="3X")d(1D);1D=1D.14}9(1H&&b)1f(-2Q.1K.5j,-2Q.1K.5C)}5m={3y:3y,1R:c}}I 5m;G d(a){1f(E.18(a,"8C"),E.18(a,"9T"))}G 1f(l,t){c+=3q(l)||0;3y+=3q(t)||0}}})();',62,615,'||||||this|||if|||||||||||||||||||||||||||||||||function|var|return|else|data|length|for|type|each|false|true|style|null|elem|document|browser|options||nodeName|||undefined|test||parentNode|apply|jQuery|window|css|display|push|fn|prop|constructor|indexOf|add|msie|event|extend|in|arguments|complete|className|typeof|replace|isFunction|new|div|status|firstChild|url|opacity|hide|show|attr|nodeType|filter|end|Array|parent|success|table|height|safari|cache|tbody|body|trigger|string|value|hidden|script|start|left|merge|id|match|animate|map|find|while|dataType||offsetParent|break|global|select|toggle|toUpperCase|catch|get|selected|duration|cur|try|ready|remove|done|al|makeArray|nextSibling|none|unit|now|handle||target|split|swap|guid|slice|text|stack|pushStack|fx|tb|button|scrollTop|events|preventDefault|readyState|scrollLeft|width|toLowerCase|delete|timeout|px|name|checked|exec|step|overflow|ret|one|doc|nth|inArray|grep|block|val|position|childNodes|max|timers|removeData|rl|Math|trim|tagName|documentElement|disabled|load|insertBefore|mozilla|opera|encodeURIComponent|call|oldblock|append|param|src|async|readyList|is|removeChild|color|args|last|first|eval|parseInt|self|domManip|has|getTime|Date|ajax|prototype|top|toString|orig|form|old|innerHTML|easing||multiFilter|curAnim|queue|custom|parseFloat|stopPropagation|defaultView|ownerDocument|curCSS|getComputedStyle|bind|which|json|String|error|static|isReady|visible|oWidth|oHeight|on|setInterval|getElementById|currentStyle|shift|ol|child|RegExp|jsre|input|isXMLDoc|lastModified|previousSibling|jquery|dir|version|pos|styleFloat|state|update|tr|getAttribute|el|html|empty|responseText|getElementsByTagName|float|radio|runtimeStyle|ajaxSettings|visibility|mouseover|handleHover|getPropertyValue|selectedIndex|clearInterval|safariTimer|__ie_init|absolute|lastToggle|GET|fromElement|relatedTarget|clean|index|init|click|fix|evt|removeEventListener|handler|andSelf|addEventListener|cloneNode|triggered|nodeIndex|unique|classFilter|Number|prevObject|unshift|submit|password|file|after|removeAttribute|expr|_|appendChild|setTimeout|client|active|jsonp|sibling|win|deep|boxModel|cssFloat|globalEval|getResponseHeader|offsetLeft|lastChild|wrapAll|results|startTime|props|dequeue|swing|createElement|handleError|parsererror|checkbox|00|object|box|safari2|Modified|ifModified|setRequestHeader|offsetTop|col|contentType|ajaxSend|ajaxSuccess|ajaxComplete|ajaxStop|ajaxStart|serializeArray|notmodified|POST|loaded|onreadystatechange|appendTo|DOMContentLoaded|bindReady|mouseout|not|unbind|unload|ctrlKey|removeAttr|metaKey|keyCode|charCode|Width|clientX|pageX|srcElement|join|outerHTML|substr|parse|zoom|textarea|reset|image|odd|ajaxError|even|before|quickClass|quickID|quickChild|prepend|processData|offset|scroll|execScript|contents|uuid|continue|textContent|clone|setArray|getBoundingClientRect|_default|nodeValue|xml|100|alpha|href|speed|splice|throw|createTextNode|_toggle|replaceWith|linear|304|200|colgroup|Last|httpData|httpNotModified|fl|httpSuccess|beforeSend|fieldset|webkit|XMLHttpRequest|ActiveXObject|http|callback|img|br|attributes|abbr|urlencoded|www|pixelLeft|application|post|getJSON|getScript|elements|serialize|defer|ipt|scr|write|clientWidth|hasClass|clientHeight|mousemove|mouseup|relative|mousedown|dblclick|resize|focus|change|keydown|keypress|keyup|FORM|blur|frames|right|hover|triggerHandler|offsetWidth|offsetHeight|clientY|pageY|border|toElement|padding|Left|cancelBubble|returnValue|Right|Bottom|Top|detachEvent|attachEvent|substring|animated|line|header|weight|font|enabled|innerText|contains|only|eq|gt|ajaxSetup|lt|size|uFFFF|u0128|417|inner|Height|toggleClass|removeClass|addClass|replaceAll|insertAfter|prependTo|contentWindow|contentDocument|head|wrap|iframe|children|noConflict|siblings|prevAll|nextAll|prev|wrapInner|next|parents|maxLength|maxlength|readOnly|Boolean|readonly|class|htmlFor|CSS1Compat|compatMode|compatible|borderLeftWidth|inline|ie|ra|medium|it|rv|522|userAgent|with|navigator|1px|concat|10000|array|PI|cos|ig|fast|NaN|600|slow|Function|Object|setAttribute|reverse|changed|be|can|fadeTo|property|fadeOut|fadeIn|slideToggle|slideUp|getAttributeNode|slideDown|method|action|stop|cssText|responseXML|content|300|protocol|location|option|send|400|abort|th|td|cap|colg|tfoot|With|Requested|thead|GMT|1970|leg|Jan|01|opt|Thu|Since|If|Type|area|Content|hr|borderWidth|open|XMLHTTP|Microsoft|meta|onload|row|link|borderTopWidth|specified'.split('|'),0,{}))
 </script>
 <script type="text/javascript">
@@ -568,54 +567,72 @@ jQuery.cookie = function(name, value, options) {
         });
 	</script>
 
-            </head>
-<body>
-<div id="container">
-<div id="header">
-<div class="time" xmlns="">182 ms</div>
-<h1>TaskDaoTest: <strong><span class="total" xmlns="http://www.w3.org/1999/xhtml">3 total, </span><span class="passed">3 passed</span></strong>
-</h1>
-<div id="treecontrol">
-<ul>
-<li>
-<a title="Collapse the entire tree below" href="#">Collapse</a>
+            
+    </head>
+    <body>
+        <div id="container">
+            <div id="header">
+                <div class="time" xmlns="">153 ms</div>
+                <h1>
+                    TaskDaoTest: <strong><span class="total" xmlns="http://www.w3.org/1999/xhtml">3 total, </span><span class="passed">3 passed</span></strong>
+                </h1>
+                <div id="treecontrol">
+                    <ul>
+                        <li>
+                            <a title="Collapse the entire tree below" href="#">Collapse</a>
                   |
-                </li>
-<li>
-<a title="Expand the entire tree below" href="#">Expand</a>
-</li>
-</ul>
-</div>
-</div>
-<div id="content">
-<ul id="tree">
-<li xmlns="" class="level top open">
-<span><em class="time">
-<div class="time">182 ms</div>
-</em>com.cleanup.todoc.TaskDaoTest</span>
-<ul>
-<li class="level test">
-<span><em class="time">
-<div class="time">103 ms</div>
-</em><em class="status">passed</em>insertAndGetTask</span>
-</li>
-<li class="level test">
-<span><em class="time">
-<div class="time">52 ms</div>
-</em><em class="status">passed</em>insertAndDeleteItem</span>
-</li>
-<li class="level test">
-<span><em class="time">
-<div class="time">27 ms</div>
-</em><em class="status">passed</em>getTasksWhenNoTaskInserted</span>
-</li>
-</ul>
-</li>
-</ul>
-</div>
-</div>
-<div id="footer">
-<p>Generated by Android Studio on 07/02/22 10:25</p>
-</div>
-</body>
+                
+                        </li>
+                        <li>
+                            <a title="Expand the entire tree below" href="#">Expand</a>
+                        </li>
+                    </ul>
+                </div>
+            </div>
+            <div id="content">
+                <ul id="tree">
+                    <li xmlns="" class="level top open">
+                        <span><em class="time">
+                                <div class="time">153 ms</div>
+                            </em>com.cleanup.todoc.TaskDaoTest</span>
+                        <ul>
+                            <li class="level test">
+                                <span><em class="time">
+                                        <div class="time">76 ms</div>
+                                    </em><em class="status">passed</em>insertAndGetTask</span>
+                                <ul>
+                                    <li class="text">
+                                        <span class="stdout">--------- beginning of main<br/>02-25 09:19:00.245 +0000 10127  6678  6700 I TestRunner: finished: insertAndGetTask(com.cleanup.todoc.TaskDaoTest)<br/></span>
+                                    </li>
+                                </ul>
+                            </li>
+                            <li class="level test">
+                                <span><em class="time">
+                                        <div class="time">51 ms</div>
+                                    </em><em class="status">passed</em>insertAndDeleteItem</span>
+                                <ul>
+                                    <li class="text">
+                                        <span class="stdout">--------- beginning of main<br/>02-25 09:19:00.300 +0000 10127  6678  6700 I TestRunner: finished: insertAndDeleteItem(com.cleanup.todoc.TaskDaoTest)<br/></span>
+                                    </li>
+                                </ul>
+                            </li>
+                            <li class="level test">
+                                <span><em class="time">
+                                        <div class="time">26 ms</div>
+                                    </em><em class="status">passed</em>getTasksWhenNoTaskInserted</span>
+                                <ul>
+                                    <li class="text">
+                                        <span class="stdout">--------- beginning of main<br/>02-25 09:19:00.329 +0000 10127  6678  6700 I TestRunner: finished: getTasksWhenNoTaskInserted(com.cleanup.todoc.TaskDaoTest)<br/></span>
+                                    </li>
+                                </ul>
+                            </li>
+                        </ul>
+                    </li>
+                </ul>
+            </div>
+        </div>
+        <div id="footer">
+            <p>Generated by Android Studio on </p>
+        </div>
+    </body>
 </html>

diff --git a/app/src/androidTest/java/com/cleanup/todoc/TaskDaoTest.java b/app/src/androidTest/java/com/cleanup/todoc/TaskDaoTest.java
@@ -35,10 +35,11 @@ public class TaskDaoTest {
 
         @Test
         public void insertAndGetTask() throws InterruptedException {
+
                 this.database.taskDao().createTask(TASK_DEMO);
                 // TEST
                 List<Task> tasks = LiveDataTestUtil.getValue(this.database.taskDao().getTask(PROJECT_ID));
-                assertEquals(1, tasks.size());
+                assertTrue(tasks.contains(TASK_DEMO));
         }
 
         @Test
@@ -53,7 +54,7 @@ public class TaskDaoTest {
                 this.database.taskDao().createTask(TASK_DEMO);
                 // TEST
                 List<Task> tasks = LiveDataTestUtil.getValue(this.database.taskDao().getTask(PROJECT_ID));
-                assertEquals(1, tasks.size());
+                assertTrue(tasks.contains(TASK_DEMO));
                 this.database.taskDao().deleteTask(tasks.remove(0));
                 //TEST
                 assertTrue(tasks.isEmpty());

diff --git a/app/src/main/java/com/cleanup/todoc/model/Task.java b/app/src/main/java/com/cleanup/todoc/model/Task.java
@@ -177,4 +177,29 @@ public class Task {
             return (int) (left.creationTimestamp - right.creationTimestamp);
         }
     }
+    // Overriding equals() to compare two Complex objects
+    @Override
+    public boolean equals(Object o) {
+
+        // If the object is compared with itself then return true
+        if (o == this) {
+            return true;
+        }
+
+        /* Check if o is an instance of Complex or not
+          "null instanceof [type]" also returns false */
+        if (!(o instanceof Task)) {
+            return false;
+        }
+
+        // typecast o to Complex so that we can compare data members
+        Task c = (Task) o;
+
+        // Compare the data members and return accordingly
+        return id == (c.getId())
+                && name.equals(c.getName())
+                && creationTimestamp == c.getCreationTimestamp()
+                && projectId == c.getProjectId();
+    }
+
 }
